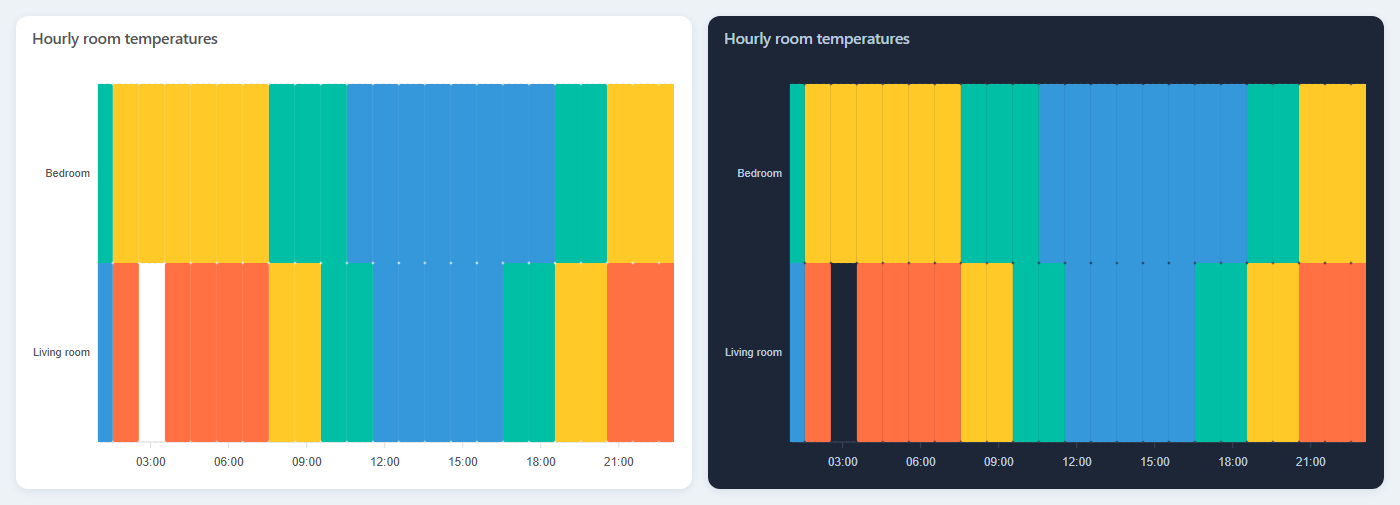
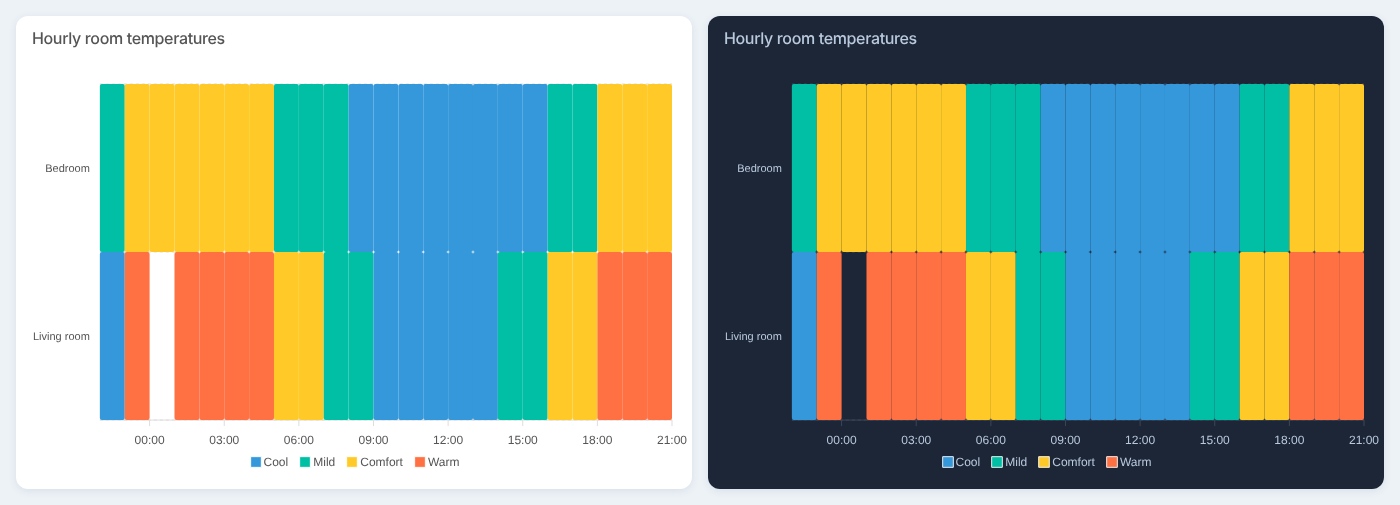
docs: heatmap how-to, fork features and a current heatmap screenshot
- New how-to: show room temperatures as a heatmap (hourly cells, color
  bands, 24-hour time), validated with the other README examples.
- What's different in this fork: heatmap color bands, the time-range
  tooltip and aligned time labels; range-area bands listed on their own.
- Feature guide: heatmap row points to the how-to and color bands.
- docs/heatmap.png re-rendered: color bands with legend, labels on the
  cell edges, the missing hour left blank.

Claude-Session: https://claude.ai/code/session_01DMKc69kS4DwJLWBTStB7uD

diff --git a/README.md b/README.md
@@ -28,6 +28,7 @@ It is also inspired by the great [`mini-graph-card`](https://github.com/kalkih/m
 - [How-to guides](#how-to-guides)
   - [Show a sensor over the last 24 hours](#show-a-sensor-over-the-last-24-hours)
   - [Show energy used per day](#show-energy-used-per-day)
+  - [Show room temperatures as a heatmap](#show-room-temperatures-as-a-heatmap)
   - [Compare today with yesterday](#compare-today-with-yesterday)
   - [Put two units on one chart](#put-two-units-on-one-chart)
   - [Calculate a value from other sensors](#calculate-a-value-from-other-sensors)
@@ -170,6 +171,49 @@ series:
 - `statistics` reads Home Assistant's hourly long-term statistics, which are kept for years, instead of the recent history, which the recorder keeps for 10 days by default.
 - For weeks, months or years, change `graph_span`, `span.end` and `statistics.period` together, for example `12month`, `month` and `month`.
 
+### Show room temperatures as a heatmap
+
+One row per room and one cell per hour of the last day, colored by temperature band, like a timetable of where it was warm or cold:
+
+```yaml
+type: custom:apexcharts-card
+chart_type: heatmap
+graph_span: 24h
+hours_12: false
+header:
+  show: true
+  title: Room temperatures
+heatmap:
+  color_ranges:
+    - value: 0
+      color: '#3498db'
+      name: Cool
+    - value: 20
+      color: '#5fa772'
+      name: Comfort
+    - value: 22
+      color: '#d8b13a'
+      name: Warm
+    - value: 23
+      color: '#e0772f'
+      name: Hot
+series:
+  - entity: sensor.living_room_temperature
+    name: Living room
+    group_by:
+      func: avg
+      period: hour
+  - entity: sensor.bedroom_temperature
+    name: Bedroom
+    group_by:
+      func: avg
+      period: hour
+```
+
+- `period: hour` makes each cell a clock hour, so the time labels sit on the cell edges and the tooltip shows the hour a cell covers (`Tue, Nov 24, 21:00 – 22:00`).
+- Each color band runs from its `value` up to the next band; the lowest also covers everything below. The visual editor's **Display** tab has the same bands under **Heatmap Color Bands**. See [Color bands](#color-bands).
+- Every row needs the same grouping. For a week, use `graph_span: 7d` with `period: day`, or keep hours and raise `heatmap.max_cells`: rows × hours must stay within it (default 512). See [Bounded heatmaps](#bounded-heatmaps).
+
 ### Compare today with yesterday
 
 The same sensor twice, the second one moved forward by a day, so today and yesterday share the time axis:
@@ -306,7 +350,8 @@ Everything documented below keeps working as before; this fork adds:
 - **Calendar navigation**: optional day/week/month switch with previous/next and plain-language period labels, following the dashboard time zone.
 - **Explicit editor presets**: temperature, power and consumption starters without replacing your entity IDs.
 - **Computed series**: [`compute`](#compute-option) calculates a series from other series of the card (net power, totals, ratios), without a template sensor.
-- **Selected visual insights**: paired range-area bands and aggregated heatmaps with enforced cell budgets, using the existing ApexCharts runtime.
+- **Range-area bands**: a shaded band between two series, such as a min/max or forecast envelope.
+- **Heatmaps**: one row per sensor and one cell per hour, day or longer, with [color bands](#color-bands) and a legend (also in the visual editor), a tooltip naming the time each cell covers (`Tue, Nov 24, 21:00 – 22:00`), time labels that line up with the cells, and enforced cell budgets.
 
 ## Feature guide
 
@@ -319,7 +364,7 @@ Everything documented below keeps working as before; this fork adds:
 | Configure common charts quickly | [Editor starter presets](#visual-editor-starter-presets) | Explicit action; review the aggregation and source requirements before saving. |
 | Net power, totals or ratios of several sensors | [Computed series](#compute-option) | Calculated from the series the card already loads; no extra requests and no helper entity. |
 | See a min/max or forecast envelope | [Range-area bands](#range-area-bands) | Two supplied bounds with matching timestamps; no forecasting engine. |
-| Spot hourly/daily patterns across rooms | [Bounded heatmaps](#bounded-heatmaps) | Aggregate first; default 512 cells, hard maximum 2,048. Missing cells are not zero. |
+| Spot hourly/daily patterns across rooms | [Bounded heatmaps](#bounded-heatmaps), [how-to](#show-room-temperatures-as-a-heatmap) | Aggregate first, with `group_by.period: hour` for cells on the hour; [color bands](#color-bands) for value ranges. Default 512 cells, hard maximum 2,048. Missing cells are not zero. |
 
 The screenshots below are actual card/editor renders from generated browser fixtures, **not live HA measurements**. Chart examples show colorful light/dark variants, like the existing gallery. Colors can be selected per series with `color` or through `color_list`. Existing chart examples remain in [Examples](#examples-1).
 
